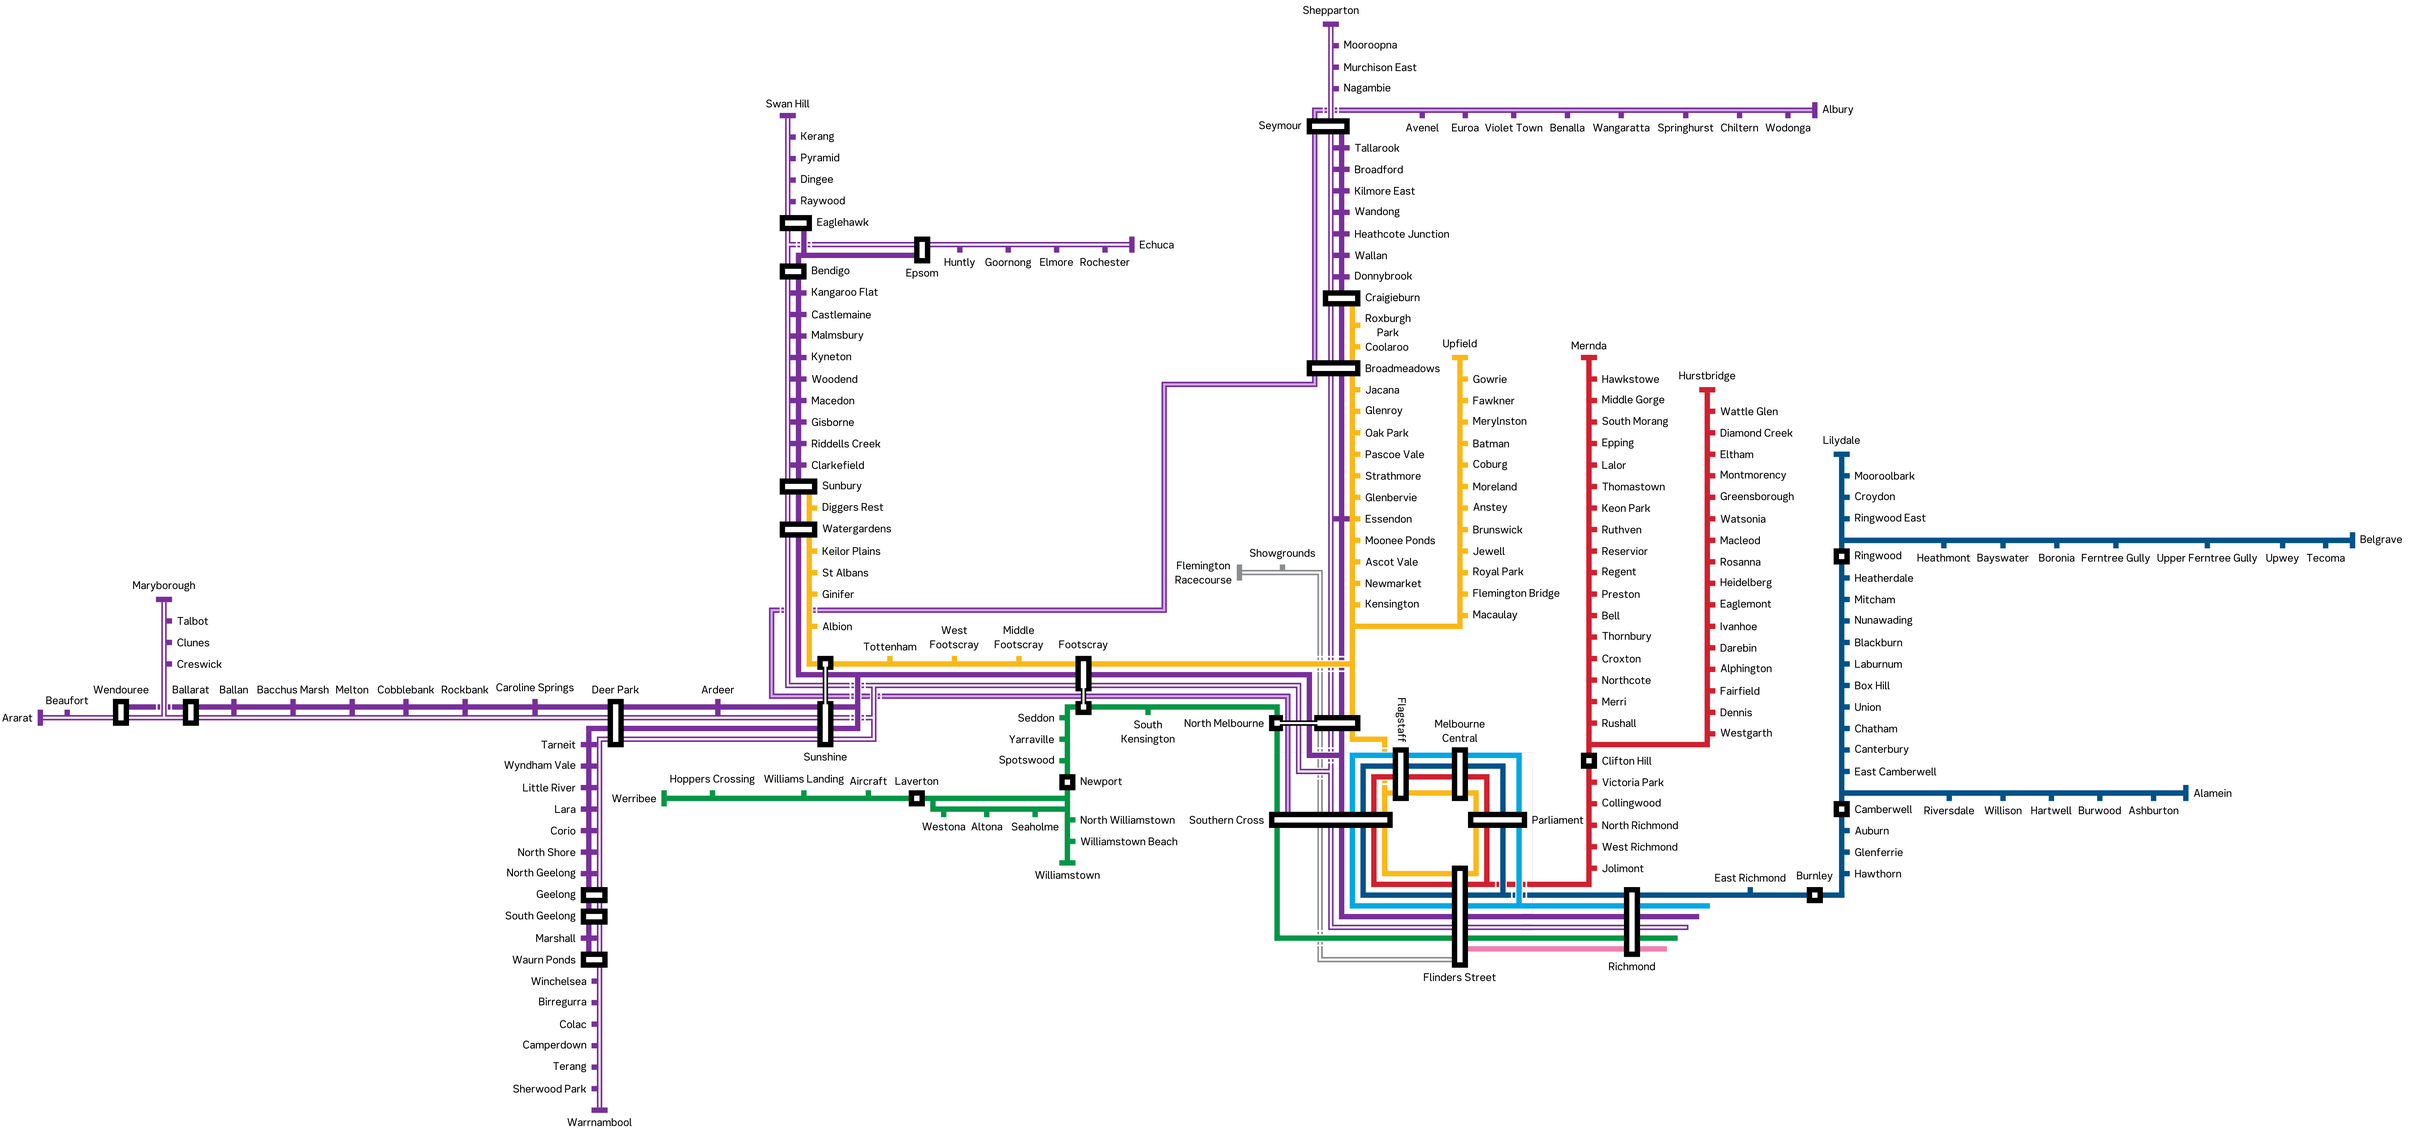
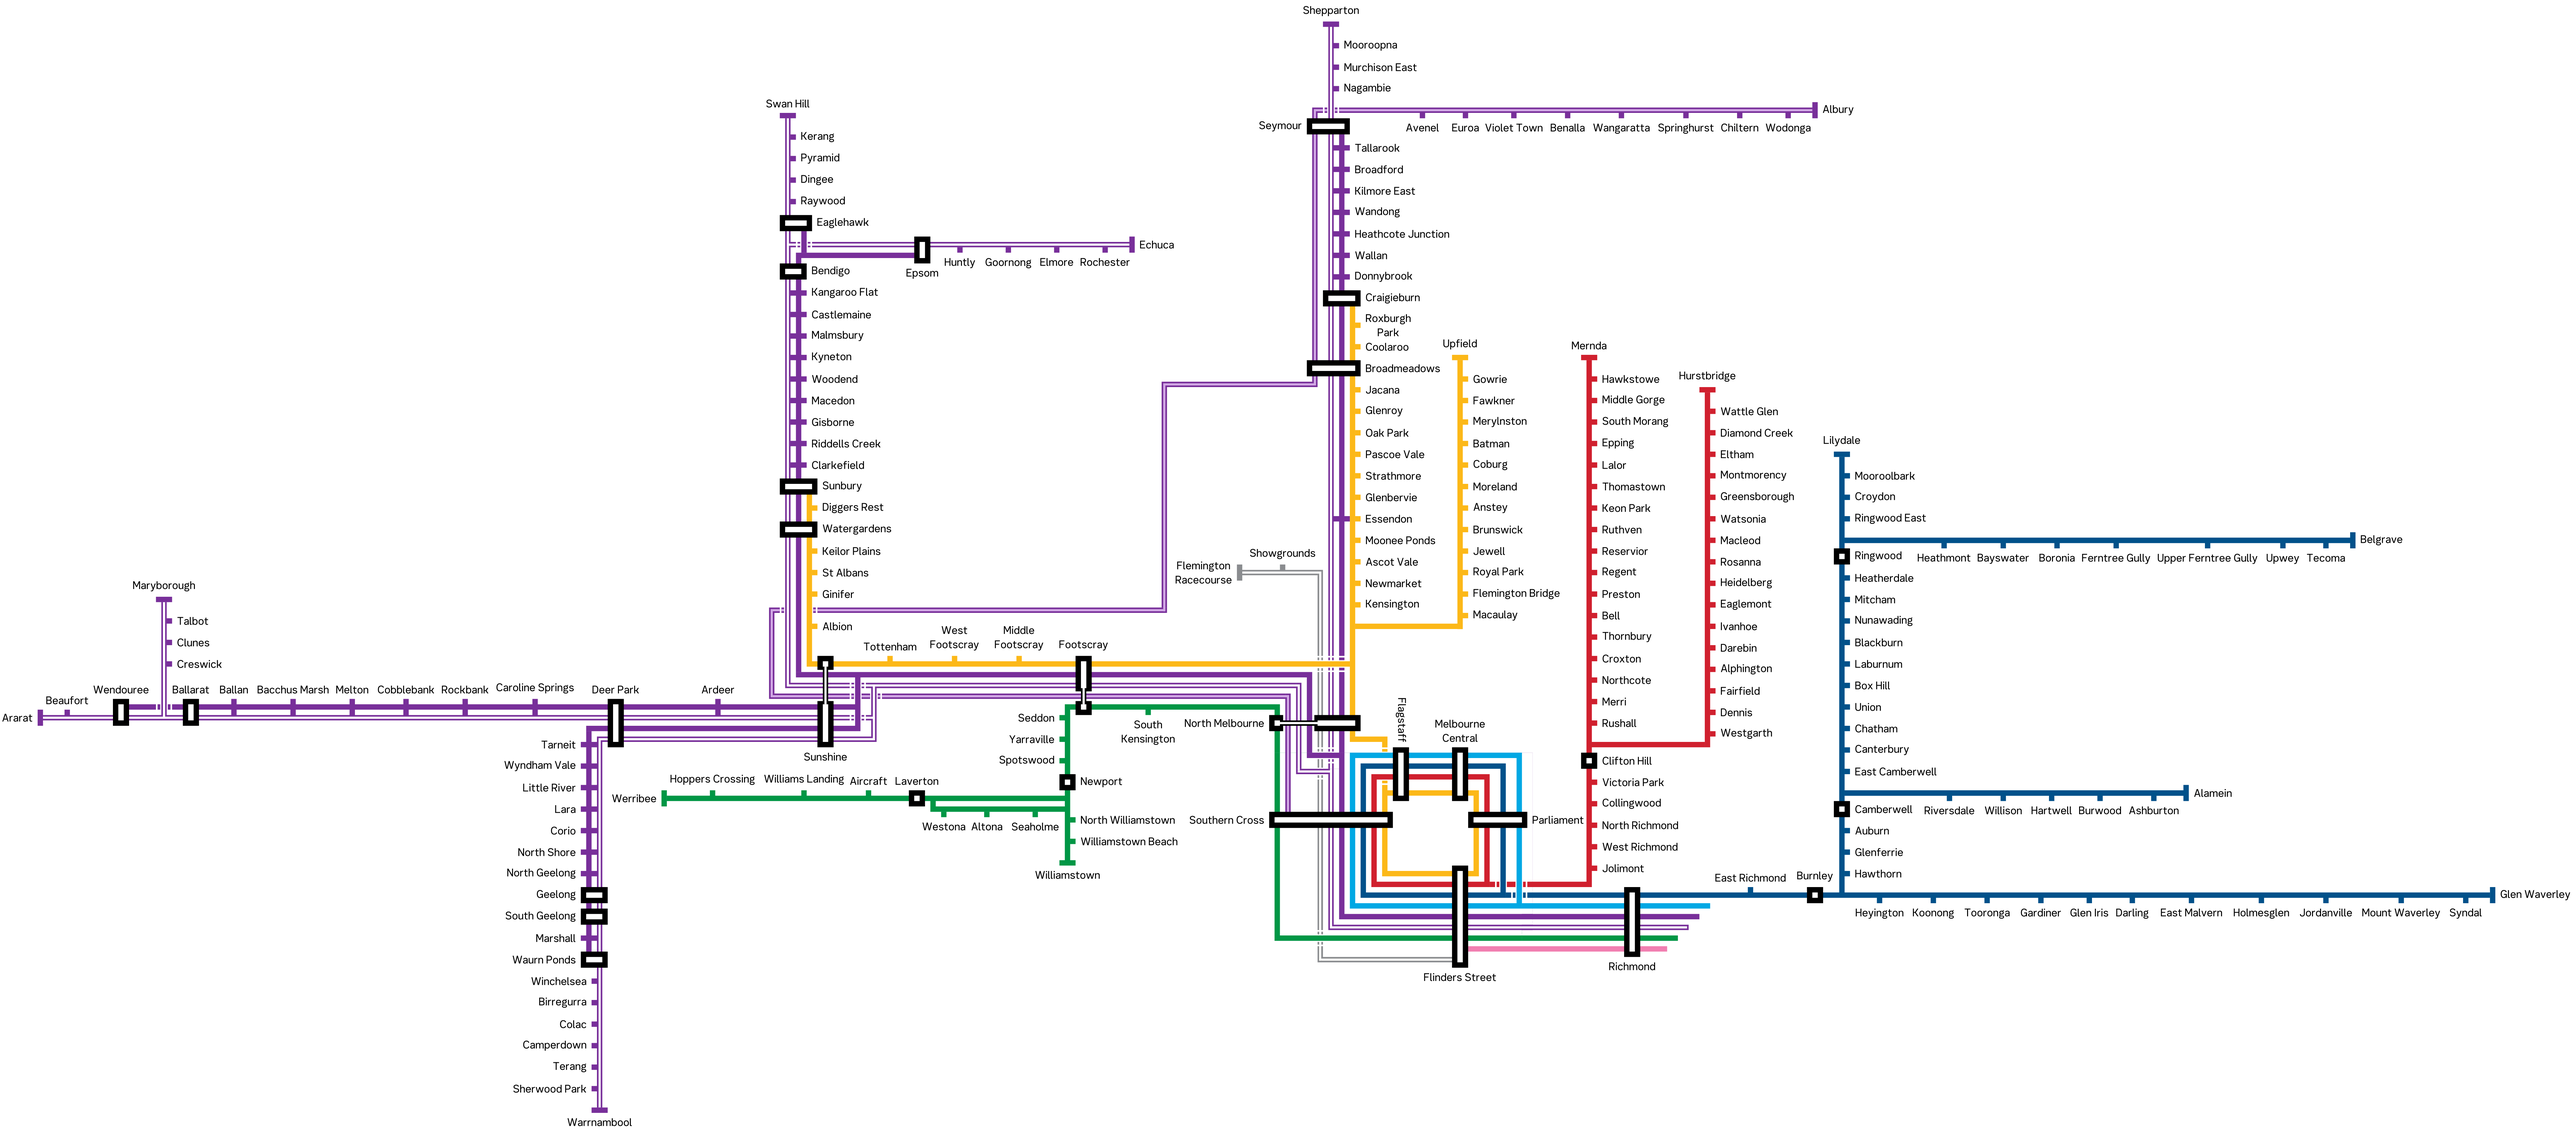
glen waverley

Changed region(s): [[0.0, 0.0, 0.9985, 1.0], [0.8425, 0.6851, 0.9049, 0.7163]]

diff --git a/utils/trainlogger/map/mapimage.py b/utils/trainlogger/map/mapimage.py
@@ -24,6 +24,18 @@ class MapImageHandler:
             "Richmond": (4327 + x_offset, 2632 + y_offset, 4807 + x_offset, 2732 + y_offset),
             "East Richmond": (5250 + x_offset, 1750 + y_offset, 6000 + x_offset, 1900 + y_offset),
             "Burnley": (6050 + x_offset, 1700 + y_offset, 6450 + x_offset, 1950 + y_offset),
+            "Heyington": (6600 + x_offset, 2100 + y_offset, 7100 + x_offset, 2250 + y_offset),
+            "Kooyong": (7100 + x_offset, 2100 + y_offset, 7550 + x_offset, 2250 + y_offset),
+            "Tooronga": (7600 + x_offset, 2100 + y_offset, 8100 + x_offset, 2300 + y_offset),
+            "Gardiner": (8100 + x_offset, 2100 + y_offset, 8550 + x_offset, 2250 + y_offset),
+            "Glen Iris": (8550 + x_offset, 2100 + y_offset, 9000 + x_offset, 2250 + y_offset),
+            "Darling": (9000 + x_offset, 2100 + y_offset, 9400 + x_offset, 2250 + y_offset),
+            "East Malvern": (9450 + x_offset, 2100 + y_offset, 10050 + x_offset, 2250 + y_offset),
+            "Holmesglen": (10050 + x_offset, 2100 + y_offset, 10700 + x_offset, 2300 + y_offset),
+            "Jordanville": (10700 + x_offset, 2100 + y_offset, 11250 + x_offset, 2250 + y_offset),
+            "Mount Waverley": (11300 + x_offset, 2100 + y_offset, 12100 + x_offset, 2250 + y_offset),
+            "Syndal": (12150 + x_offset, 2100 + y_offset, 12500 + x_offset, 2250 + y_offset),
+            "Glen Waverley": (12600 + x_offset, 1900 + y_offset, 13300 + x_offset, 2100 + y_offset),
             "Hawthorn": (6650 + x_offset, 1750 + y_offset, 7100 + x_offset, 1900 + y_offset),
             "Glenferrie": (6600 + x_offset, 1550 + y_offset, 7150 + x_offset, 1700 + y_offset),
             "Auburn": (6600 + x_offset, 1300 + y_offset, 7000 + x_offset, 1500 + y_offset),
